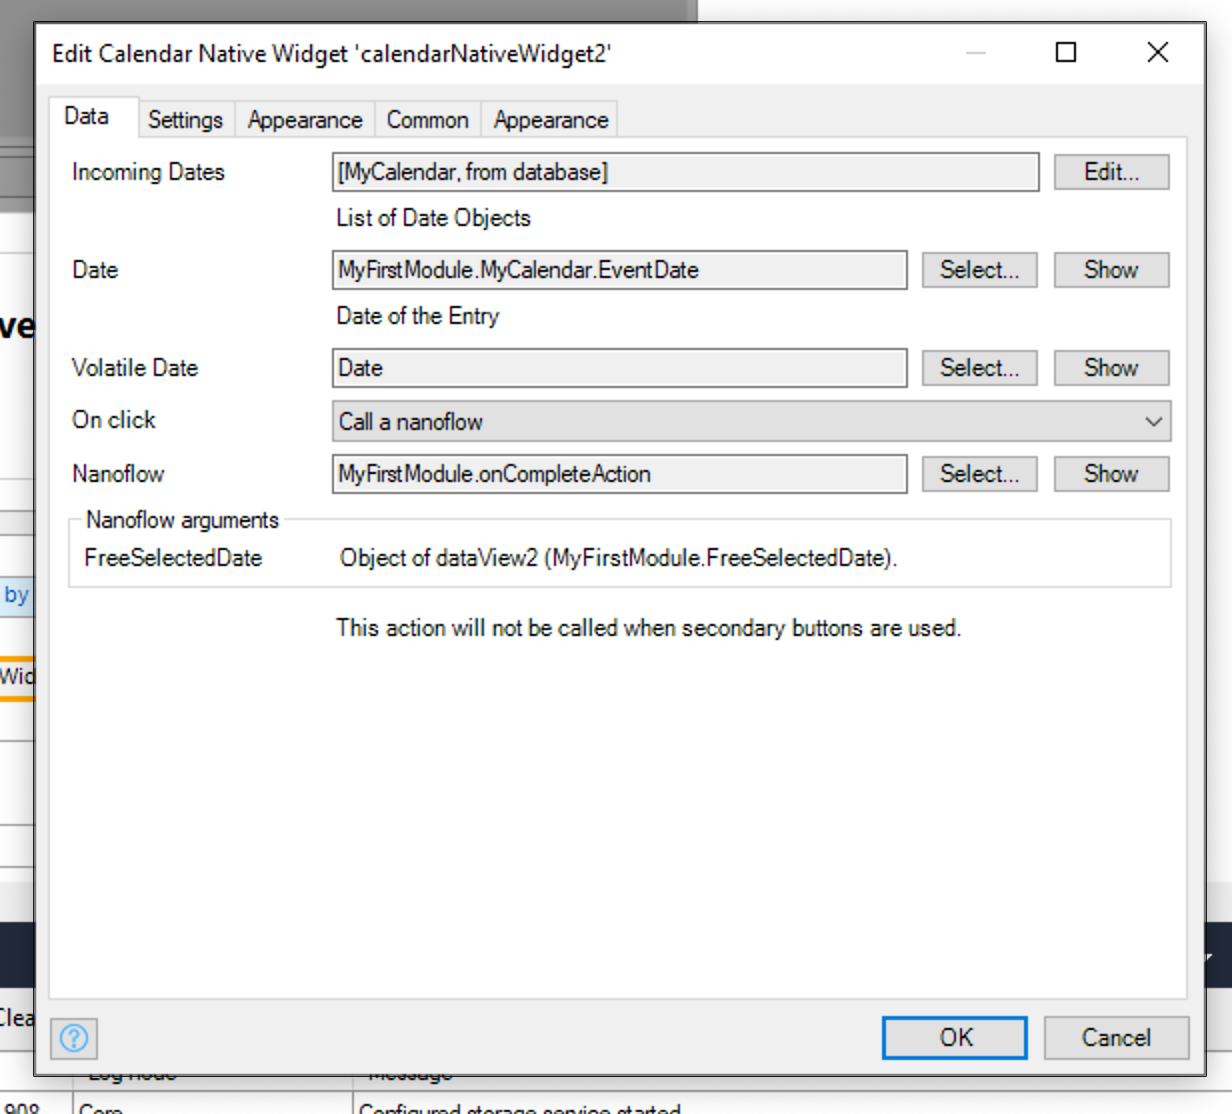
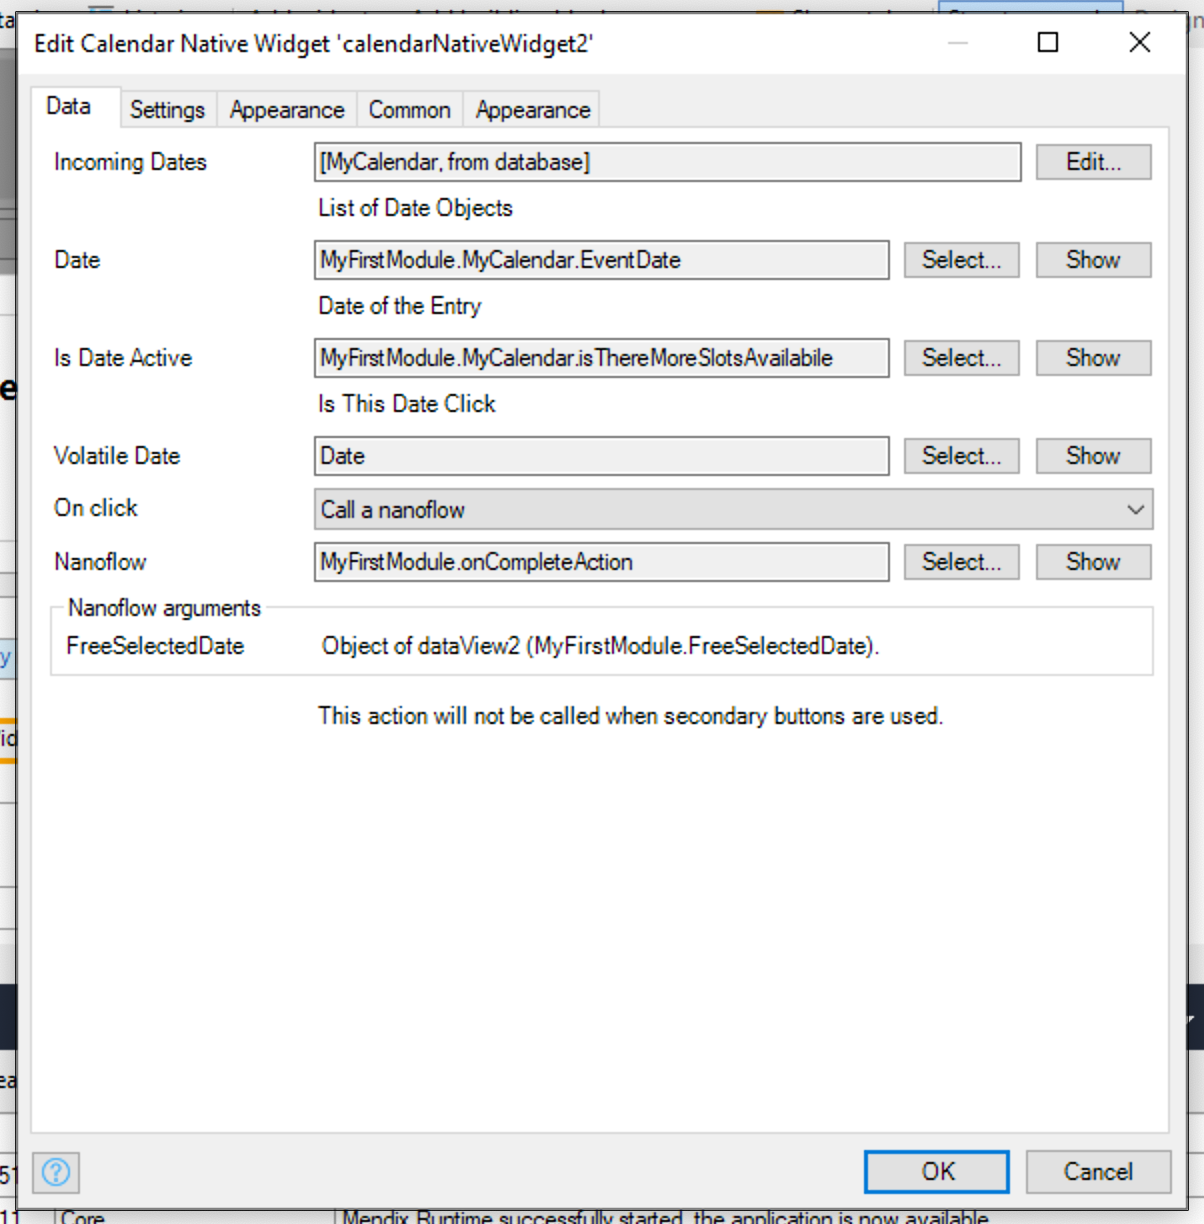
docs: :art: docs update

Changed region(s): [[0.0, 0.0, 1.0, 1.0]]

diff --git a/projects/mendix/calendar-native-widget/src/CalendarNativeWidget.tsx b/projects/mendix/calendar-native-widget/src/CalendarNativeWidget.tsx
@@ -19,6 +19,7 @@ export class CalendarNativeWidget extends Component<CalendarNativeWidgetProps<Cu
             buttonText,
             initialDate,
             startOfWeek,
+            isActiveDate,
             propertyName,
             volatileDate,
             incomingDates,
@@ -29,7 +30,8 @@ export class CalendarNativeWidget extends Component<CalendarNativeWidgetProps<Cu
             disablePastDates,
             selectedTextColor,
             autoTriggerAction,
-            disableMonthChange
+            disableMonthChange,
+            takeIsActiveIntoAccount
         } = this.props;
         return (
             <View>
@@ -39,6 +41,7 @@ export class CalendarNativeWidget extends Component<CalendarNativeWidgetProps<Cu
                     buttonText={buttonText}
                     startOfWeek={startOfWeek}
                     initialDate={initialDate}
+                    isActiveDate={isActiveDate}
                     volatileDate={volatileDate}
                     propertyName={propertyName}
                     selectedColor={selectedColor}
@@ -50,6 +53,7 @@ export class CalendarNativeWidget extends Component<CalendarNativeWidgetProps<Cu
                     selectedTextColor={selectedTextColor}
                     autoTriggerAction={autoTriggerAction}
                     disableMonthChange={disableMonthChange}
+                    takeIsActiveIntoAccount={takeIsActiveIntoAccount}
                 />
             </View>
         );

diff --git a/projects/mendix/calendar-native-widget/src/components/CalendarInit.tsx b/projects/mendix/calendar-native-widget/src/components/CalendarInit.tsx
@@ -28,6 +28,7 @@ const CalendarInit = ({
     buttonText,
     startOfWeek,
     initialDate,
+    isActiveDate,
     volatileDate,
     propertyName,
     incomingDates,
@@ -38,7 +39,8 @@ const CalendarInit = ({
     disablePastDates,
     autoTriggerAction,
     selectedTextColor,
-    disableMonthChange
+    disableMonthChange,
+    takeIsActiveIntoAccount
 }: ExcludedCalendarNativeWidgetProps) => {
     const [weekends, setWeekends] = useState<any>();
     const [startDate, setStartDate] = useState<Date>();
@@ -121,9 +123,11 @@ const CalendarInit = ({
         if (incomingDates) {
             const destructedValues = incomingDates.items?.map((item: any) => {
                 const dateValue = date(item);
+                const isActiveDateValue = isActiveDate(item);
                 const formattedDate = format(new Date(dateValue.displayValue), DATE_FORMAT);
                 return {
                     dateValue,
+                    isActiveDateValue,
                     formattedDate
                 };
             });
@@ -141,6 +145,7 @@ const CalendarInit = ({
                         ...a,
                         [c.formattedDate]: {
                             marked: true,
+                            disabled: takeIsActiveIntoAccount ? !c.isActiveDateValue.value : false,
                             dotColor: defaultDotColor
                         }
                     };

diff --git a/projects/mendix/calendar-native-widget/typings/CalendarNativeWidgetProps.d.ts b/projects/mendix/calendar-native-widget/typings/CalendarNativeWidgetProps.d.ts
@@ -14,12 +14,14 @@ export interface CalendarNativeWidgetProps<Style> {
     style: Style[];
     incomingDates?: ListValue;
     date: ListAttributeValue<Date>;
+    isActiveDate: ListAttributeValue<boolean>;
     volatileDate?: EditableValue<Date>;
     onClick?: ActionValue;
     propertyName: string;
     buttonText: string;
     startOfWeek: StartOfWeekEnum;
     darkModeOption: DarkModeOptionEnum;
+    takeIsActiveIntoAccount: boolean;
     activeSwipeDown: boolean;
     disableMonthChange: boolean;
     autoTriggerAction: boolean;
@@ -36,12 +38,14 @@ export interface CalendarNativeWidgetPreviewProps {
     style: string;
     incomingDates: {} | null;
     date: string;
+    isActiveDate: string;
     volatileDate: string;
     onClick: {} | null;
     propertyName: string;
     buttonText: string;
     startOfWeek: StartOfWeekEnum;
     darkModeOption: DarkModeOptionEnum;
+    takeIsActiveIntoAccount: boolean;
     activeSwipeDown: boolean;
     disableMonthChange: boolean;
     autoTriggerAction: boolean;

diff --git a/projects/mendix/calendar-native-widget/README.md b/projects/mendix/calendar-native-widget/README.md
@@ -64,13 +64,14 @@ The Idea at a higher level :
 <h3>Data</h3>
 
 <p align="center">
- <img  align="center" alt="headerIMG" src="https://raw.githubusercontent.com/ahwelgemoed/calendar-native-widget/main/assets/Data.png" target="_blank" />
+ <img  align="center"  width="450"  alt="headerIMG" src="https://raw.githubusercontent.com/ahwelgemoed/calendar-native-widget/main/assets/Data.png" target="_blank" />
 </p>
 
 |                | Type        | Info                                                                                                                                                       |
 | -------------- | ----------- | ---------------------------------------------------------------------------------------------------------------------------------------------------------- |
 | Incoming Dates | Data Source | List of Dates to Display                                                                                                                                   |
 | Date           | DateTime    | Attribute in Date Source that is of Type Date                                                                                                              |
+| Is Active Date | Boolean     | If `false` the date will be greyed out                                                                                                                     |
 | Volatile Date  | DateTime    | Non Persistable Date that the Widget can Change and Mendix Developer can Observe                                                                           |
 | OnClick        | Action      | Action to Happen when the User Clicks on the Date - Usually a Nano Flow used to Open Page to either Add New Date or Display all entries for selected date. |
 
@@ -79,26 +80,27 @@ The Idea at a higher level :
 <h3>Settings</h3>
 
 <p align="center">
- <img  align="center" alt="headerIMG" src="https://raw.githubusercontent.com/ahwelgemoed/calendar-native-widget/main/assets/Settings.png" target="_blank" />
+ <img  align="center" width="450" alt="headerIMG" src="https://raw.githubusercontent.com/ahwelgemoed/calendar-native-widget/main/assets/Settings.png" target="_blank" />
 </p>
 
-|                      | Type    | Info                                                                                                                                                       |
-| -------------------- | ------- | ---------------------------------------------------------------------------------------------------------------------------------------------------------- |
-| Name of Property     | String  | Name of Property seen when User swipes down _If Activate Swipe Down is True/Yes_                                                                           |
-| Button Text          | String  | Text on Button _If Auto Trigger Action is set to False/No_                                                                                                 |
-| Start Of Week        | ENUM    | On what day is the start of the week                                                                                                                       |
-| Display Mode         | ENUM    | Changes the Calendar "theme", based on what display mode the users device is on Either System (will take what the current device is on), or Light or Dark. |
-| Active Swipe Down    | Boolean | Activate Swiping down to expand the Calendar - Users will see an count of Calendar entries                                                                 |
-| Disable Month Change | Boolean | Prevent user from changing the Month                                                                                                                       |
-| Auto Trigger Action  | Boolean | Adds a button to the bottom of Calender, Allows user to select dat without triggering onClick action                                                       |
-| Disable Weekends     | Boolean | Prevents user from selecting Weekends                                                                                                                      |
-| Disable Past Dates   | Boolean | Prevents user from selecting dates in the Past                                                                                                             |
-| Months from now      | Integer | Positive or Negative Integer. sets the default starting month from Today.                                                                                  |
+|                             | Type    | Info                                                                                                                                                       |
+| --------------------------- | ------- | ---------------------------------------------------------------------------------------------------------------------------------------------------------- |
+| Name of Property            | String  | Name of Property seen when User swipes down _If Activate Swipe Down is True/Yes_                                                                           |
+| Button Text                 | String  | Text on Button _If Auto Trigger Action is set to False/No_                                                                                                 |
+| Take Is Active Into Account | Boolean | If `false` Is Active Date will be ignored                                                                                                                  |
+| Start Of Week               | ENUM    | On what day is the start of the week                                                                                                                       |
+| Display Mode                | ENUM    | Changes the Calendar "theme", based on what display mode the users device is on Either System (will take what the current device is on), or Light or Dark. |
+| Active Swipe Down           | Boolean | Activate Swiping down to expand the Calendar - Users will see an count of Calendar entries                                                                 |
+| Disable Month Change        | Boolean | Prevent user from changing the Month                                                                                                                       |
+| Auto Trigger Action         | Boolean | Adds a button to the bottom of Calender, Allows user to select dat without triggering onClick action                                                       |
+| Disable Weekends            | Boolean | Prevents user from selecting Weekends                                                                                                                      |
+| Disable Past Dates          | Boolean | Prevents user from selecting dates in the Past                                                                                                             |
+| Months from now             | Integer | Positive or Negative Integer. sets the default starting month from Today.                                                                                  |
 
 <h3>Appearance</h3>
 
 <p align="center">
- <img  align="center" alt="headerIMG" src="https://raw.githubusercontent.com/ahwelgemoed/calendar-native-widget/main/assets/Appearance.png" target="_blank" />
+ <img  align="center" width="450" alt="headerIMG" src="https://raw.githubusercontent.com/ahwelgemoed/calendar-native-widget/main/assets/Appearance.png" target="_blank" />
 </p>
 
 |                          | Type   | Info                                     |
